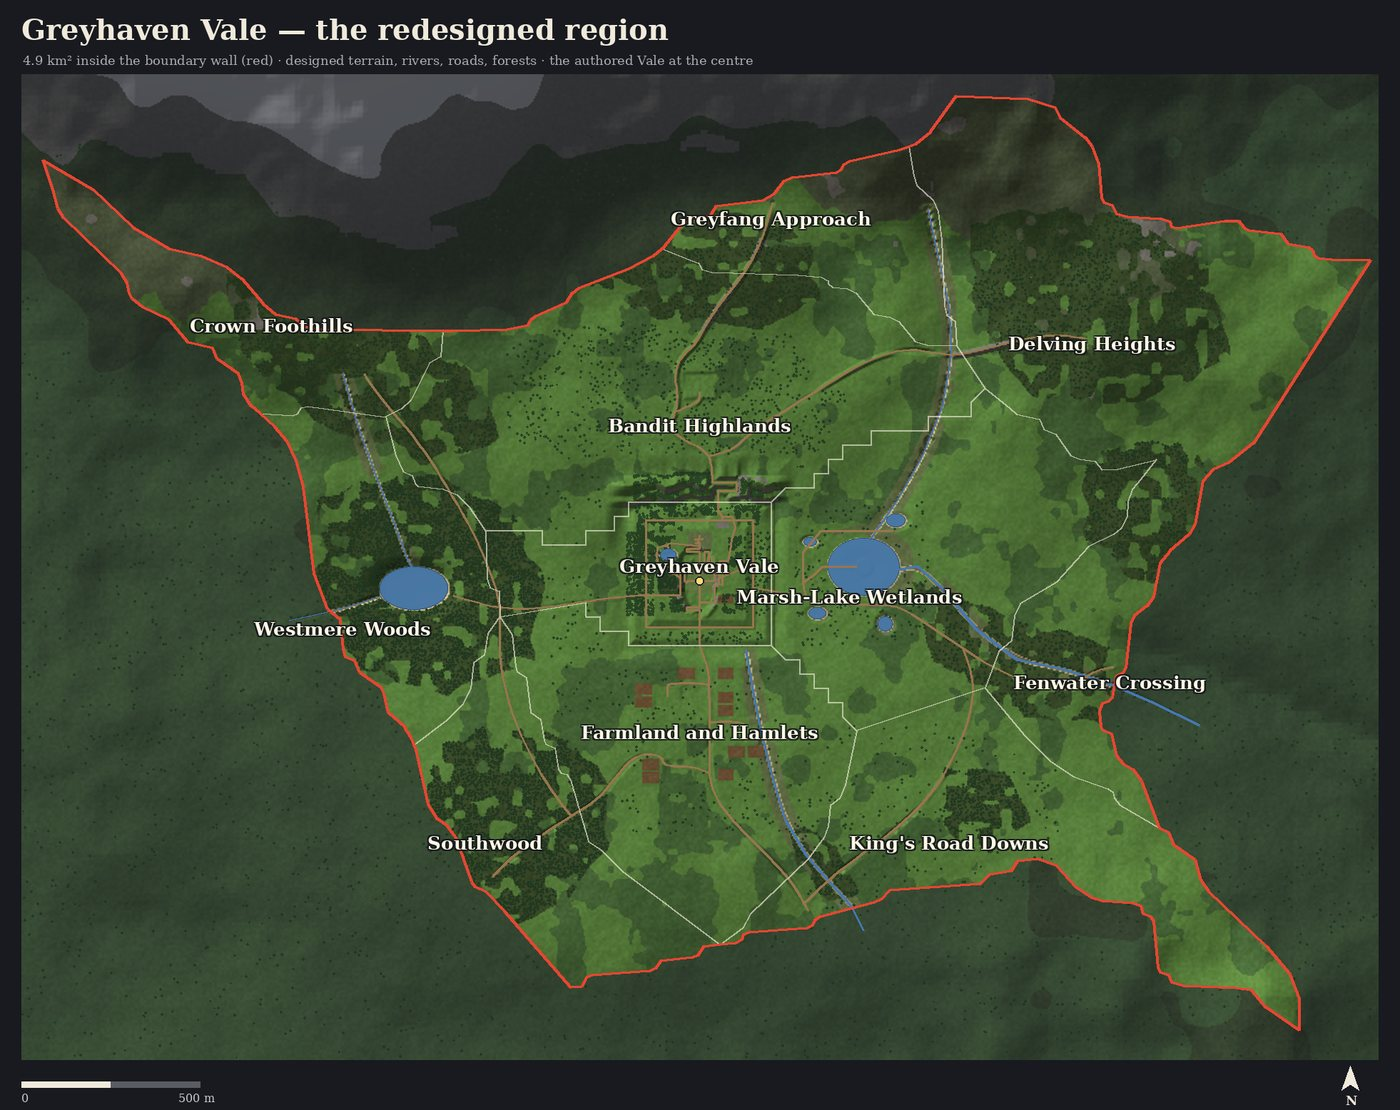
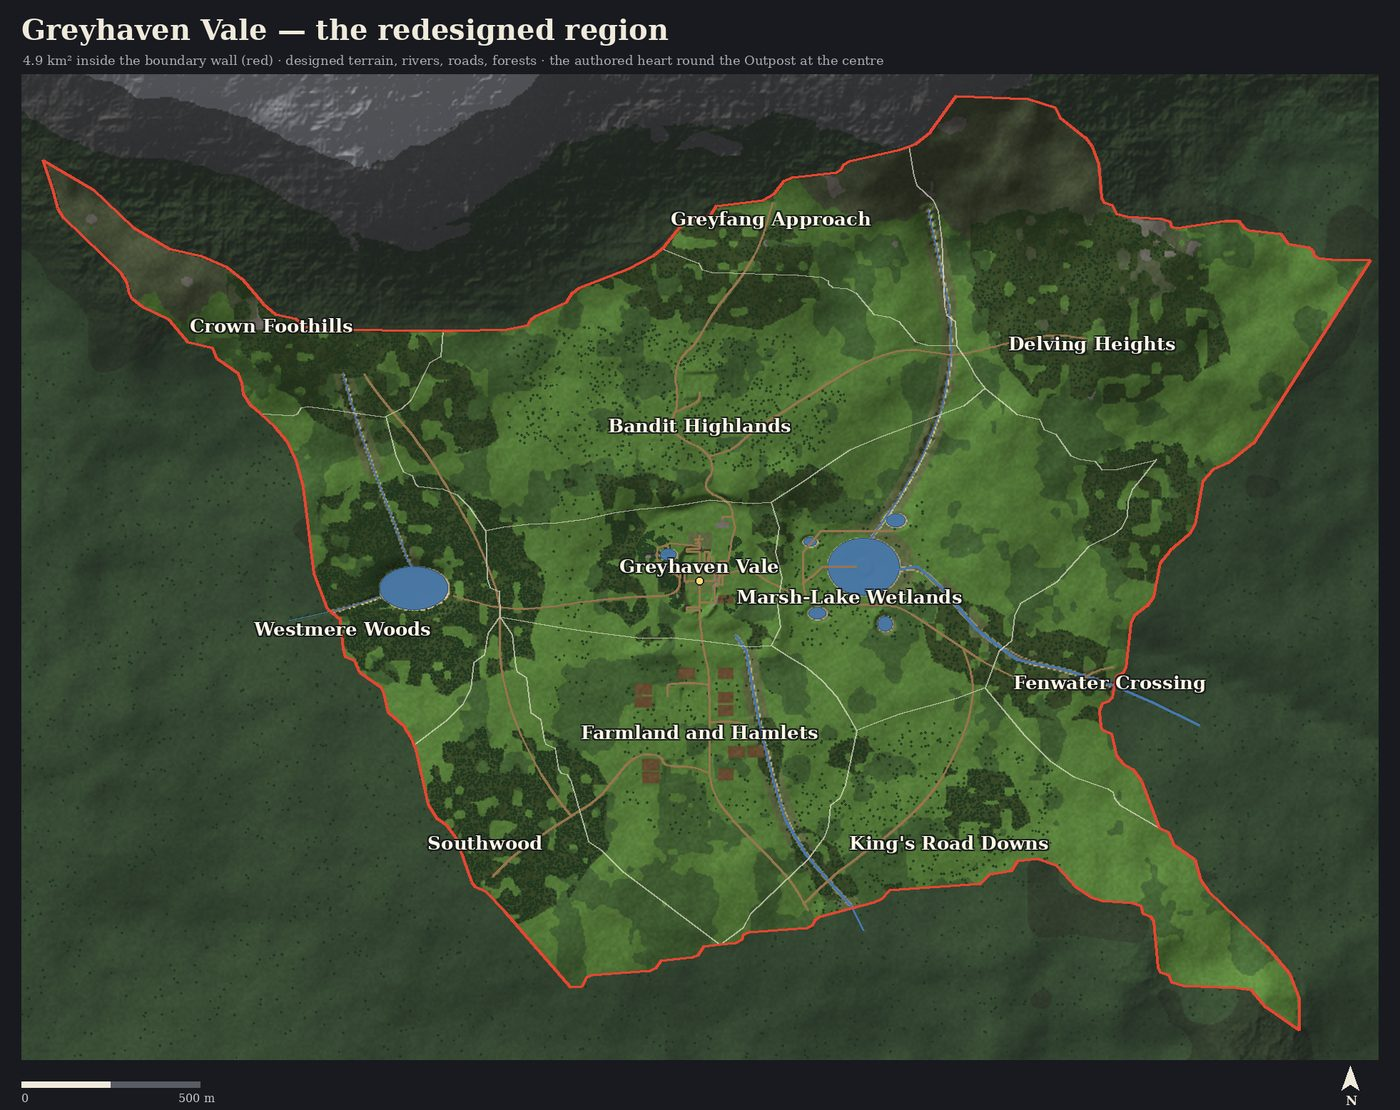
Document the Vale's heart and the land round it (#816)

diff --git a/docs/decisions/atlas.md b/docs/decisions/atlas.md
@@ -307,6 +307,12 @@
         - A road graded flat across 3 m with a 6 m fade.
         - Landmarks and quests for the new ground follow later.
       - ([#816](https://github.com/moenarch-games/mmorpg/issues/816); [design](../GREYHAVEN_REGION.md))
+    - **5.1.i816-2** [owner decision; implemented, not visually accepted] **The redesign reaches into the Vale: only an organic heart round the basin stays hand-authored.** Reviewing the first redesign, the owner rejected the rectangular core left in the middle (the square Vale Ring Road, the straight escarpment with its right-angled Highland Pass, the rectangular woods and stepped sub-region borders) and asked for the region to be drawn anew (2026-11-15). Refines 5.1.i816; supersedes its "kept: the highlands' escarpment".
+      - **Kept:** the heart (the Outpost's basin and rim with its climbs, Millbrook Farm, Stillwater Lake and the Sunken Shrine, Redbrand Hollow and the Greyfang cave, 5.1.84), its quest chain, NPCs and creatures, and the outer valley's named landmarks, now on the designed land.
+      - **Replaced:** the outer valley's square ring of hills and its Vale Ring Road, Fen Track and Downs Trail; the escarpment, its Highland Pass and its marked climbing route; the outer and northern rectangular groves; the stepped atlas borders round the Vale.
+      - **Designed:** Greyfang Ridge with unequal summits, spurs and a saddle, the Highland Pass as the Greyfang Road's winding climb from the Redbrand camp; roads leaving the heart from the tops of its climbs; forests round the heart; the Greywater rising below the Vale's south rim; ground cover across the whole region from the land itself.
+      - **Agent decisions (recorded for review):** the heart's outline in `design.json`, swollen by up to 15 m of noise and blended over 40 m; a 10 m road fade; branches easing onto the road they leave; the basin's six climbs keep their right-angled ledges for now.
+      - ([#816](https://github.com/moenarch-games/mmorpg/issues/816); [design](../GREYHAVEN_REGION.md))
     - **5.1.i490** [decision; implemented, not visually accepted] **Climbing on climbable surfaces and free ledge mantling, first slice of 5.1.40 and the owner's climbing answers** (#490). Content marks climbable collision on the authoritative content (`ClimbSurfaces`): colliders by ID and terrain stretches by XZ rectangle, each rough rock, timber or rungs; everything else (buildings, towers, standing stones, cave walls, the boundary walls) is not. Greyhaven: the palisades and fences, crags, boulders, shore rocks and the Redbrand cliffs climb, with unclimbable variants (the Hollow's sheer back wall, two sheer highland crags, the stronghold's smooth-planked northern palisade); the Vale basin's cliffs are rock except the sheer cliff under Stillwater Lake; the highland escarpment, the farmland ridge and the wetlands ridge each have one 8 m climbing route beside their pass and are sheer elsewhere; ladders climb the Eastwater watchtower, the highland lookout and the drowned watchtower. **Input (agent's recommended defaults):** jumping at a climbable face that continues above the hands, or pressing forward into one in the air, grabs it; forward/back climb up/down along the face, strafing moves along it, jumping lets go (no regrab for 0.5 s unless landed); climbing is 0.9 m/s up or down and 0.75 m/s sideways, with no stamina and no height limit. **Mantling** needs no marking: jumping at any ledge whose walkable top is at most 2.2 m above the feet (about 3.4 m with a jump's reach, by pressing forward in the air), or climbing to the top of a face, pulls the player up when the zone finds a steep face in front, nothing solid above the reach between body and ledge, and a free body path straight up and across onto the ledge; it rises at 3 m/s, moves across at 2.1 m/s, sets the feet down onto the ledge and drops the player if it has not landed after 2 s. The zone decides every transition on the last physics step's positions with Rapier rays and capsule sweeps; climbers and mantlers are weightless and move by the character controller like swimmers, so nothing teleports; the state is canonical and continues exactly from a checkpoint. A forced move tears a climber off. Both clients pose climbers in place (idle holding on, walk while moving, facing the wall) until authored clips arrive (#500); ladders draw as procedural rails and rungs. The physics A/B adds `vale-climb`, which both backends pass within a unit. Not yet: visual cues on climbable rock, authored rope and vine props (asset-tooling), and visual acceptance. ([#490](https://github.com/moenarch-games/mmorpg/issues/490); owner answers 2026-10-25, live; refines 5.1.40.)
     - **5.1.i513** [decision; implemented, awaiting owner visual acceptance] **Greyhaven's Waterworn Gorge** (#513). A modest waterfall from the western rim feeds a shallow, winding brook through the inhabited Outpost, crossed by a timber footbridge and drained through a low opening in the southern palisade. Three cottages and four named residents use the existing building kit and villager models. The basin has a rounded, irregular outline and weathered rock shoulders instead of rectangular corners; the established switchbacks and village footprint remain usable. Core owns the channel footprint, bed, terrain and crossing collision; shared presentation owns wet banks, reeds, timber and flowing foam. No hydrology, new quests or collision streaming. (Owner requests 2026-11-05; [#513](https://github.com/moenarch-games/mmorpg/issues/513); refines 5.1.84 and retains 5.1.i490.)
     - **5.1.i513-2** [decision; implemented, awaiting owner visual acceptance] **Finish the Outpost's prominent architecture and settlement layout** (owner review of #644, 2026-11-05; refines 5.1.i513). Replace the keep blockout with authored textured masonry, slate roofs, engaged turrets, windows and an entrance; give the palisade chamfered corners, dressed open gates and four covered timber watchtowers. Preserve the four road openings and core collision authority through simplified meshes. Add physical knolls and rock outcrops; clear the brook's visual/terrain joins; move the well onto dry ground; reduce the visible gathering square while retaining spawn capacity; add a produce stall and eight residents. Keep buildings, terrain and defences on the existing native/WASM content and presentation paths. No new renderer, asset-cache framework, tower interiors or gameplay systems. ([#644](https://github.com/moenarch-games/mmorpg/pull/644))

diff --git a/docs/GREYHAVEN_REGION.md b/docs/GREYHAVEN_REGION.md
@@ -34,8 +34,8 @@ Mountain streams feed both basins:
 
 | Sub-region | Character | Creatures (levels) |
 | --- | --- | --- |
-| Greyhaven Vale | The authored basin with the Outpost, unchanged | the quest chain's |
-| Bandit Highlands | Uplands above the authored escarpment, rising to the mountains | Redbrand garrison (3–5) |
+| Greyhaven Vale | The authored heart round the Outpost's basin, and the land round it | the quest chain's |
+| Bandit Highlands | Greyfang Ridge and the uplands beyond its pass, rising to the mountains | Redbrand garrison (3–5) |
 | Farmland and Hamlets | Rolling downs with three hamlets, hedgerow trees and the landmark tower | — |
 | Marsh-Lake Wetlands | The marsh basin round the lake and pools, alder copses | lurkers, boars, wolves |
 | Greyfang Approach | Pine slopes and scree under the mountains, the road north | Redbrand outriders (4–5) |
@@ -54,13 +54,15 @@ Every sub-region is on a road, and loops join them without passing through the O
 
 - **King's Road:** from the South Road through the hamlets and down the Greywater's west bank to
   the southern edge, toward Millford. The hamlets' lanes branch off it.
-- **Greyfang Road:** from the top of the Highland Pass, past the stronghold (by the **Stronghold
-  Way**) and the **Lookout Path**, north to the mountains.
+- **Greyfang Road:** from the Redbrand camp at the Greyfang cave's north mouth, winding up
+  through the **Highland Pass** (a saddle in Greyfang Ridge), past the stronghold (by the
+  **Stronghold Way**) and the **Lookout Path**, north to the mountains.
 - **Delving Track:** east from the lookout across the ravine to the Delving Heights.
-- **Fen Road:** east from the Vale Ring Road, south of the Marsh Lake and down the Fenwater to
+- **Fen Road:** east from the top of the Millbrook Climb, south of the Marsh Lake and down the
+  Fenwater to
   its ford. The **Marsh Trail** leads off it to the causeway.
 - **Fenwater Link:** from the Fen Road south to the King's Road.
-- **Westmere Road:** west from the Downs Trail to the tarn. The **Crown Track** leads off it
+- **Westmere Road:** west from the top of the Wolfrun Climb to the tarn. The **Crown Track** leads off it
   north into the Crown Foothills.
 - **Southwood Trail** and **Westwood Track:** from the south hamlet through Southwood and back
   north to the Westmere Road.
@@ -70,8 +72,13 @@ Where a road meets a river it fords it.
 
 ## How it is built
 
-The hand-authored **core** stays as it was: the Vale and the highlands' escarpment above it
-(`greyhaven_vale::CORE`). Everything round it comes from committed data:
+Only the Vale's **heart** is hand-authored: the Outpost's basin and the rim round it with
+Millbrook Farm, Stillwater Lake and the Sunken Shrine, Redbrand Hollow and the Greyfang cave.
+Its outline is the `heart` in `design.json`, rounded into curves and swollen outwards by up to
+15 m in broad lobes (`greyhaven_vale::beyond_core`), so no straight edge or square ring is left
+of the old rectangular core. The old outer valley ring, its square Vale Ring Road, the straight
+escarpment and its right-angled pass, and the farmland's and wetlands' ridges are gone.
+Everything round the heart comes from committed data:
 
 - **`content/greyhaven/design.json`** holds the design, in metres:
   - height controls and roughness;
@@ -89,23 +96,27 @@ The hand-authored **core** stays as it was: the Vale and the highlands' escarpme
   - the river channels, cut at the 4 m grid and filled with water reaches;
   - level pads under the yards, fields and buildings (buildings in a yard share its height);
   - the wetlands' own waters, island and causeway;
-  - the roads, each graded to a smoothed profile along it except at fords.
+  - the roads, each graded to a smoothed profile along it except at fords; a branch eases onto
+    the height of the road it leaves.
 
-  Within 60 m of the core this blends into the authored ground.
+  Within 40 m of the heart this blends into the authored ground.
 - **Forests and rock fields** are colliders: trunks and boulders, kept clear of roads, waters,
   pads, creature posts and each other. The clients draw the ground cover from the land itself:
   - forest floor under the closer forests;
   - damp hollows by the rivers and the marsh;
   - rock on cliffs, highland grass high up;
   - meadow in broad patches;
-  - undergrowth clumps in and along the forests.
+  - undergrowth clumps in and along the forests;
+  - tussocks, flower drifts and scrub gathered in patches across the open land.
 
-  Beyond the wall the mountains are wooded low down, with rock and snow above.
+  The heart's own woods and groves are rounded into clumps. Beyond the wall the mountains are
+  wooded low down, with crags, rock and snow above.
 
 ## Not yet done
 
 - **Landmarks** in the new sub-regions: the Delving workings with their bridge over the ravine, a
   Greyfang watchtower, hamlets on the downs.
 - **Quests** and NPCs out there.
-- **The core's own rectangles:** the square Vale Ring Road and the Vale's woods.
+- **The basin's climbs:** the six ways up the heart's 11 m cliffs keep their right-angled ledges
+  and landings.
 - **Visual acceptance** from the owner.

diff --git a/docs/STARTER_ZONE.md b/docs/STARTER_ZONE.md
@@ -43,7 +43,7 @@ The browser demo runs the same `ZoneSimulation` through a WASM build as a local,
 - 100 simulation units per metre, Y up, 60 Hz ticks.
 - The playable square is about 416 m × 416 m, centred on the origin (#159: the original 240 m valley plus a ring of four outer regions — Greyfang Ridge, Southmeadow Downs, Hollowpine Reach and Eastwater Fen — joined by the Vale Ring Road, the Fen Track and the Downs Trail). Mountains outside are scenery.
 - **The whole Greyhaven Vale region** (#810, Atlas 5.1.i810, `greyhaven_vale::region`): the zone covers the continent atlas's Greyhaven Vale region, about 3.7 km × 2.6 km (4.9 km²), round the hand-authored Vale, Farmland, Highlands and Wetlands (`greyhaven_vale::AUTHORED`). Its outline and base terrain (40 m atlas samples, −45 m to +254 m relative to the Vale's floor) are exported once by `atlas.py zone-export greyhaven` into `content/greyhaven/region.json`, which is zone content from then on. The 4 m terrain grid covers the region in whole physics tiles; the authored ground is unchanged and blends into the base terrain over 60 m beyond it. Invisible boundary walls (20 m above and below the ground, solid from both sides) follow the outline; beyond them the region's mountains and the distant ranges are scenery. One host simulates the whole region; combat does not cross zone borders.
-- **The region as one landscape** (#816, Atlas 5.1.i816, [design](GREYHAVEN_REGION.md)): beyond the authored core (the Vale and the escarpment) the ground is designed terrain from `content/greyhaven/design.json`, with the Greywater, Fenwater, Delving Run and Westmere Tarn, a graded road network with fords, organic forests, rock fields, seven named sub-regions and their creatures. The farmland's ridge and notch, the wetlands' ridge and pass and their climbing routes are gone; the paragraphs below describe the regions as first built.
+- **The region as one landscape** (#816, Atlas 5.1.i816 and 5.1.i816-2, [design](GREYHAVEN_REGION.md)): beyond the authored heart round the Outpost's basin the ground is designed terrain from `content/greyhaven/design.json`, with the Greywater, Fenwater, Delving Run and Westmere Tarn, a graded road network with fords, organic forests, rock fields, seven named sub-regions and their creatures. The outer valley's square ring and its Vale Ring Road, the escarpment and its Highland Pass (now a winding saddle road over Greyfang Ridge), the farmland's ridge and notch, the wetlands' ridge and pass and their climbing routes are gone; the paragraphs below describe the regions as first built.
 - **Walkable ground** is physically flat (y = 0) across the original 240 m valley. The outer valley (#159, content revision 13) has physical hills up to 10 m: an authored 4 m heightfield (`greyhaven_vale::terrain()`) that the zone's Rapier world walks units on, with flat cells left to the floor half-space. Structures and trunks out there stand on it, creatures spawn on it. Clients draw the terrain as physical ground plus the presentation relief (at most about 0.6 m) and draw units at their physics position plus that relief.
 - **Village basin, slice 1** (#423, content revision 27, Atlas 5.1.84, `greyhaven_vale::basin`): Millbrook Farm stands on a terrace 11 m above the Outpost's valley floor. Its western, northern and southern edges are cliffs (11 m over one 4 m cell, 70°) that no unit walks up; to the east it falls gently (17°) into the Fen hills, where the Fen Track leaves it. The **Millbrook Climb** (Millbrook Road, about 1:5) runs from the east gate north along a ledge in the cliff face, round a hairpin landing 6.4 m up and south up a cutting onto the terrace. The **Millbrook Steps** (about 1:3.6) lead from the farmyard south down a second ledge to the valley floor and the South Road. Farm structures, the mill dock, ramps and hoist, creatures, props and Farmer Osric all stand on the terrace. Clients draw faces steeper than 45° as bare rock. Redbrand Hollow and Wolfrun Woods terraces come in slice 3.
 - **Village basin, slice 2** (#423, content revision 28): Stillwater Lake and the Sunken Shrine lie in the same 11 m terrace. Its west cliff faces the Hollow Road, its north cliff Redbrand Hollow and its south cliff the basin's northern apron; east of the farm's west cliff it runs on into the farm terrace, and the eastern slope into the Fen hills now starts beyond the shrine's cave (x 128 m). The water surface, the lake basin, the shrine plaza, the flooded cave and its air-pocket room all moved up 11 m with it. The **Lakeshore Climb** (Lakeshore Path, about 1:6 then 1:4.5) leaves the Hollow Road north of the gate, runs north along a ledge in the west cliff to a landing 5.6 m up and back south up a cutting onto the lake's west shore. The **Stillwater Rim Trail** joins the farmyard to the lake's south shore across the terrace, a loop that skips the Outpost.

diff --git a/docs/TERRAIN_PATCHES.md b/docs/TERRAIN_PATCHES.md
@@ -3,7 +3,7 @@
 Issue [#782](https://github.com/moenarch-games/mmorpg/issues/782) adopts the public
 `asset-tooling/recipes/terrain-patches` recipe for a bounded Southmeadow Downs
 patch: X = 80–112 m, Z = 164–196 m. This is east of the ruined farmstead,
-south of the Vale Ring Road, and outside Millbrook Farm and every crop field.
+south of the Vale's heart, and outside Millbrook Farm and every crop field.
 The bounds are an implementation choice under the issue's one-area scope.
 
 `content/greyhaven/terrain-patches/southmeadow/recipe.json` owns the saved inputs.
